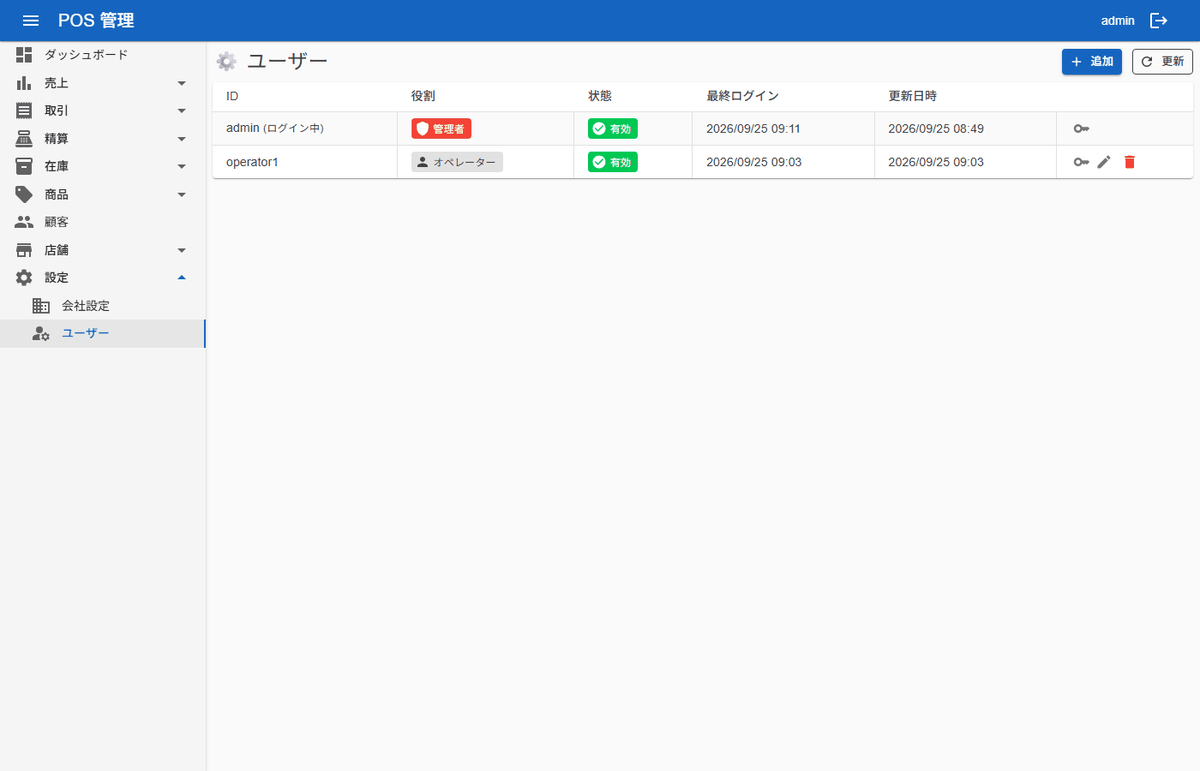
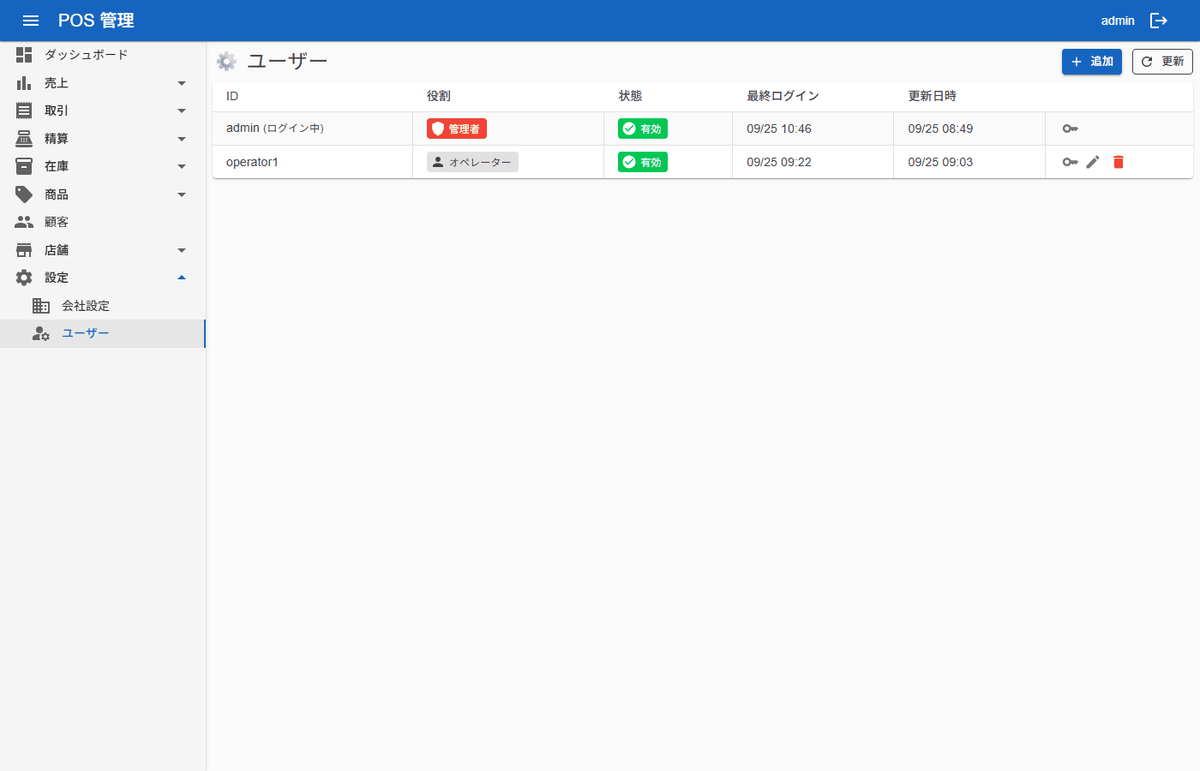
シフトの同時の精算と税率の既定の付け替えの不具合を直し、Phase 8 の不揃いを揃える
- 同じシフトの精算が同時に届いたとき、後の要求が金種を重ねて登録して 500 になるのを直す (更新できた件数を見て、先に精算されていれば再送として返す)
- 税率の登録・更新と、他の税率の既定を外す更新を 1 つのトランザクションにする
- 端末のトークンの照合を QueryByTokenHashAsync に改名し、JOIN の INNER を外す
- TerminalTokens の一意索引を UX_TerminalTokens_TokenHash にし、表との間の空行を詰める。日次締めの ClosedBy の古いコメントを直す
- ユーザー一覧の日時を年なしにし、README のユーザーの画像を撮り直す
- 設計文書を参照するコメントと、使っていない ApiResult.IsUnauthorized を消す
- ErrorCodeTests に Phase 8 の 4 つのエラーコードを足し、ApiAuthTests の固定 ID を TestData に移す

diff --git a/server/src/Pos.Server.Core/Services/TaxRateService.cs b/server/src/Pos.Server.Core/Services/TaxRateService.cs
@@ -6,18 +6,21 @@ using Pos.Server.Models.Entity;
 // 税率 (少数なのでページングなし)
 public sealed class TaxRateService
 {
+    private readonly TimeProvider timeProvider;
+    private readonly IDbProvider provider;
     private readonly IDialect dialect;
     private readonly MasterAccessor masterAccessor;
-    private readonly TimeProvider timeProvider;
 
     public TaxRateService(
+        TimeProvider timeProvider,
+        IDbProvider provider,
         IDialect dialect,
-        MasterAccessor masterAccessor,
-        TimeProvider timeProvider)
+        MasterAccessor masterAccessor)
     {
+        this.timeProvider = timeProvider;
+        this.provider = provider;
         this.dialect = dialect;
         this.masterAccessor = masterAccessor;
-        this.timeProvider = timeProvider;
     }
 
     public ValueTask<List<TaxRateEntity>> QueryListAsync(DateTime? updatedSince, bool includeDeleted, CancellationToken cancellationToken) =>
@@ -26,36 +29,50 @@ public sealed class TaxRateService
     public ValueTask<TaxRateEntity?> QueryAsync(Guid id, CancellationToken cancellationToken) =>
         masterAccessor.QueryTaxRateAsync(id, cancellationToken);
 
-    // 既定は 1 件だけ (IsDefault なら他を落とす)
-    public async ValueTask<DataWriteStatus> InsertAsync(TaxRateEntity entity, CancellationToken cancellationToken)
+    // 既定は 1 件だけ (IsDefault なら同じトランザクションで他を落とす)
+    public ValueTask<DataWriteStatus> InsertAsync(TaxRateEntity entity, CancellationToken cancellationToken)
     {
         var now = timeProvider.GetUtcNow().UtcDateTime;
         entity.Id = Guid.CreateVersion7();
         entity.CreatedAt = now;
         entity.UpdatedAt = now;
         entity.Version = 1;
-        var status = await ServiceHelper.InsertAsync(dialect, () => masterAccessor.InsertTaxRateAsync(entity, cancellationToken));
-        if ((status == DataWriteStatus.Success) && entity.IsDefault)
+        return ServiceHelper.InsertAsync(dialect, () => provider.UsingTxAsync(async (_, tx) =>
         {
-            await masterAccessor.UpdateTaxRateDefaultClearedAsync(entity.Id, now, cancellationToken);
-        }
+            var count = await masterAccessor.InsertTaxRateAsync(tx, entity, cancellationToken);
+            if (entity.IsDefault)
+            {
+                await masterAccessor.UpdateTaxRateDefaultClearedAsync(tx, entity.Id, now, cancellationToken);
+            }
 
-        return status;
+            await tx.CommitAsync(cancellationToken);
+            return count;
+        }, cancellationToken));
     }
 
-    public async ValueTask<DataWriteResult<TaxRateEntity>> UpdateAsync(TaxRateEntity entity, CancellationToken cancellationToken)
+    // 版が合わないときは何も書かない。行があるかはトランザクションを閉じてから確かめる
+    public ValueTask<DataWriteResult<TaxRateEntity>> UpdateAsync(TaxRateEntity entity, CancellationToken cancellationToken)
     {
         entity.UpdatedAt = timeProvider.GetUtcNow().UtcDateTime;
-        var result = await ServiceHelper.UpdateAsync(
+        return ServiceHelper.UpdateAsync(
             dialect,
-            () => masterAccessor.UpdateTaxRateAsync(entity.Id, entity.Code, entity.Name, entity.Rate, entity.Kind, entity.IsDefault, entity.SortOrder, entity.UpdatedAt, entity.Version, cancellationToken),
-            async () => await masterAccessor.QueryTaxRateAsync(entity.Id, cancellationToken) is { IsDeleted: false });
-        if ((result.Status == DataWriteStatus.Success) && entity.IsDefault)
-        {
-            await masterAccessor.UpdateTaxRateDefaultClearedAsync(entity.Id, entity.UpdatedAt, cancellationToken);
-        }
+            () => provider.UsingTxAsync(async (_, tx) =>
+            {
+                var updated = await masterAccessor.UpdateTaxRateAsync(tx, entity.Id, entity.Code, entity.Name, entity.Rate, entity.Kind, entity.IsDefault, entity.SortOrder, entity.UpdatedAt, entity.Version, cancellationToken);
+                if (updated is null)
+                {
+                    return null;
+                }
 
-        return result;
+                if (updated.IsDefault)
+                {
+                    await masterAccessor.UpdateTaxRateDefaultClearedAsync(tx, updated.Id, updated.UpdatedAt, cancellationToken);
+                }
+
+                await tx.CommitAsync(cancellationToken);
+                return updated;
+            }, cancellationToken),
+            async () => await masterAccessor.QueryTaxRateAsync(entity.Id, cancellationToken) is { IsDeleted: false });
     }
 
     // 使用中の商品がある税率は削除できない

diff --git a/server/src/Pos.Server.Core/Services/ShiftService.cs b/server/src/Pos.Server.Core/Services/ShiftService.cs
@@ -182,29 +182,44 @@ public sealed class ShiftService
 
         if (shift.Status == ShiftStatus.Closed)
         {
-            return shift.ActualCash == parameter.ActualCash
-                ? new ShiftResult(ShiftResultStatus.Existing, await LoadDetailAsync(shift, cancellationToken))
-                : new ShiftResult(ShiftResultStatus.Closed);
+            return await ClosedResultAsync(shift, parameter, cancellationToken);
         }
 
         var now = timeProvider.GetUtcNow().UtcDateTime;
         var totals = await shiftAccessor.QuerySummaryAsync(id, cancellationToken) ?? ShiftTotalsView.Empty;
         var expectedCash = ExpectedCash(shift.OpeningCash, totals);
-        await provider.UsingTxAsync(async (_, tx) =>
+        var updated = await provider.UsingTxAsync(async (_, tx) =>
         {
-            await shiftAccessor.UpdateClosedAsync(tx, id, parameter.ClosedAt, parameter.ClosedByStaffId, parameter.ActualCash, expectedCash, parameter.ActualCash - expectedCash, totals, parameter.Note, now, cancellationToken);
+            // 読んでから更新するまでに同じシフトの精算が先に通っていたら、金種を足さずに終える
+            if (await shiftAccessor.UpdateClosedAsync(tx, id, parameter.ClosedAt, parameter.ClosedByStaffId, parameter.ActualCash, expectedCash, parameter.ActualCash - expectedCash, totals, parameter.Note, now, cancellationToken) == 0)
+            {
+                return false;
+            }
+
             foreach (var denomination in parameter.Denominations)
             {
                 await shiftAccessor.InsertDenominationAsync(tx, new ShiftDenominationEntity { ShiftId = id, Denomination = denomination.Denomination, Count = denomination.Count }, cancellationToken);
             }
 
             await tx.CommitAsync(cancellationToken);
+            return true;
         }, cancellationToken);
 
         var closed = await shiftAccessor.QueryAsync(id, cancellationToken);
+        if (!updated)
+        {
+            return await ClosedResultAsync(closed!, parameter, cancellationToken);
+        }
+
         changeNotification.Notify(DataChangeKind.Shift);
         return new ShiftResult(ShiftResultStatus.Success, await LoadDetailAsync(closed!, cancellationToken));
     }
+
+    // 精算済み: 実査金額が同じなら再送とみなして Existing、違えば Closed
+    private async ValueTask<ShiftResult> ClosedResultAsync(ShiftEntity shift, ShiftCloseParameter parameter, CancellationToken cancellationToken) =>
+        shift.ActualCash == parameter.ActualCash
+            ? new ShiftResult(ShiftResultStatus.Existing, await LoadDetailAsync(shift, cancellationToken))
+            : new ShiftResult(ShiftResultStatus.Closed);
 
     //--------------------------------------------------------------------------------
     // CashEvent

diff --git a/server/tests/Pos.Server.IntegrationTests/ApiAuthTests.cs b/server/tests/Pos.Server.IntegrationTests/ApiAuthTests.cs
@@ -27,11 +27,6 @@ public sealed class ApiAuthTests : IClassFixture<TestApplicationFactory>
 
     private static readonly DateOnly BusinessDate = new(2026, 9, 25);
 
-    private static readonly Guid AccessoryCategoryId = new("00000000-0000-0000-0004-000000000017");
-
-    // 明細値引「展示品 5%」(承認が必要)
-    private static readonly Guid DisplayDiscountId = new("00000000-0000-0000-0007-000000000002");
-
     private readonly TestApplicationFactory factory;
 
     private readonly JsonSerializerOptions options;
@@ -270,10 +265,10 @@ public sealed class ApiAuthTests : IClassFixture<TestApplicationFactory>
             TransactedAt = Now.AddMinutes(10),
             Lines =
             [
-                new TransactionCreateRequestLine { Id = lineId, LineNo = 1, ProductId = TestData.SdCardProductId, ProductCode = "SD-64", ProductName = "SD カード 64GB", CategoryId = AccessoryCategoryId, Kind = ProductKind.Goods, ListPrice = 2000m, UnitPrice = 2000m, Quantity = 1m, TaxRateId = TestData.StandardTaxRateId, TaxRate = 0.10m, TaxIncluded = true, PointRate = 0m }
+                new TransactionCreateRequestLine { Id = lineId, LineNo = 1, ProductId = TestData.SdCardProductId, ProductCode = "SD-64", ProductName = "SD カード 64GB", CategoryId = TestData.AccessoryCategoryId, Kind = ProductKind.Goods, ListPrice = 2000m, UnitPrice = 2000m, Quantity = 1m, TaxRateId = TestData.StandardTaxRateId, TaxRate = 0.10m, TaxIncluded = true, PointRate = 0m }
             ],
             Discounts = withDiscount
-                ? [new TransactionCreateRequestDiscount { Id = Guid.NewGuid(), LineId = lineId, DiscountId = DisplayDiscountId, Name = "展示品 5%", Type = DiscountType.Percent, Value = 0.05m, ApprovedByStaffId = approvedBy }]
+                ? [new TransactionCreateRequestDiscount { Id = Guid.NewGuid(), LineId = lineId, DiscountId = TestData.DisplayDiscountId, Name = "展示品 5%", Type = DiscountType.Percent, Value = 0.05m, ApprovedByStaffId = approvedBy }]
                 : [],
             Payments =
             [

diff --git a/server/src/Pos.Server.Core/Accessors/MasterAccessor.cs b/server/src/Pos.Server.Core/Accessors/MasterAccessor.cs
@@ -223,10 +223,11 @@ public sealed partial class MasterAccessor
 
     [Execute]
     [Insert(typeof(TaxRateEntity))]
-    public partial ValueTask<int> InsertTaxRateAsync(TaxRateEntity entity, CancellationToken cancellationToken);
+    public partial ValueTask<int> InsertTaxRateAsync(DbTransaction tx, TaxRateEntity entity, CancellationToken cancellationToken);
 
     [QueryFirst]
     public partial ValueTask<TaxRateEntity?> UpdateTaxRateAsync(
+        DbTransaction tx,
         Guid id,
         string code,
         string name,
@@ -243,7 +244,7 @@ public sealed partial class MasterAccessor
 
     // 既定は 1 件だけ: 指定 ID 以外の IsDefault を落とす
     [Execute]
-    public partial ValueTask<int> UpdateTaxRateDefaultClearedAsync(Guid exceptId, DateTime updatedAt, CancellationToken cancellationToken);
+    public partial ValueTask<int> UpdateTaxRateDefaultClearedAsync(DbTransaction tx, Guid exceptId, DateTime updatedAt, CancellationToken cancellationToken);
 
     // 削除可否 (使用中商品があれば IN_USE)
     [ExecuteScalar]

diff --git a/terminal/Pos.Terminal/Services/ApiResult.cs b/terminal/Pos.Terminal/Services/ApiResult.cs
@@ -28,9 +28,6 @@ public sealed class ApiResult<T>
 
     public bool IsNotFound => (Status == ApiStatus.HttpError) && (StatusCode == HttpStatusCode.NotFound);
 
-    // 端末の登録が無効 (トークンの解除など)。再登録すれば送れる
-    public bool IsUnauthorized => (Status == ApiStatus.HttpError) && (StatusCode == HttpStatusCode.Unauthorized);
-
     // 再送しても解決しない応答 (要確認)。登録が無効 (401) と試行回数の上限 (429) は再登録・時間をおけば送れる
     public bool IsRejected => (Status == ApiStatus.HttpError) && ((int)StatusCode is >= 400 and < 500) && (StatusCode is not (HttpStatusCode.Unauthorized or HttpStatusCode.TooManyRequests));
 

diff --git a/shared/Pos.Domain.Tests/Enums/ErrorCodeTests.cs b/shared/Pos.Domain.Tests/Enums/ErrorCodeTests.cs
@@ -32,6 +32,10 @@ public sealed class ErrorCodeTests
     [InlineData(ErrorCode.OrderStatusInvalid, "ORDER_STATUS_INVALID")]
     [InlineData(ErrorCode.InventoryReceiptStatusInvalid, "INVENTORY_RECEIPT_STATUS_INVALID")]
     [InlineData(ErrorCode.InventoryTransferStatusInvalid, "INVENTORY_TRANSFER_STATUS_INVALID")]
+    [InlineData(ErrorCode.TerminalMismatch, "TERMINAL_MISMATCH")]
+    [InlineData(ErrorCode.PairingCodeInvalid, "PAIRING_CODE_INVALID")]
+    [InlineData(ErrorCode.ApprovalRequired, "APPROVAL_REQUIRED")]
+    [InlineData(ErrorCode.StaffInvalid, "STAFF_INVALID")]
     public void ErrorCodeToCode(ErrorCode code, string expected)
     {
         Assert.Equal(expected, code.ToCode());

diff --git a/server/tests/Pos.Server.IntegrationTests/TestData.cs b/server/tests/Pos.Server.IntegrationTests/TestData.cs
@@ -16,12 +16,15 @@ internal static class TestData
     public static readonly Guid MainCashierStaffId = Id(3, 3);
     public static readonly Guid BranchCashierStaffId = Id(3, 4);
 
+    public static readonly Guid AccessoryCategoryId = Id(4, 23);
+
     public static readonly Guid StandardTaxRateId = Id(5, 1);
 
     public static readonly Guid CameraProductId = Id(6, 11);
     public static readonly Guid SdCardProductId = Id(6, 17);
     public static readonly Guid DeliveryProductId = Id(6, 31);
 
+    // 明細値引「展示品 5%」(承認が必要)
     public static readonly Guid DisplayDiscountId = Id(7, 2);
 
     public static readonly Guid CashPaymentMethodId = Id(8, 1);

diff --git a/server/src/Pos.Server.Core/Services/TerminalTokenService.cs b/server/src/Pos.Server.Core/Services/TerminalTokenService.cs
@@ -125,7 +125,7 @@ public sealed class TerminalTokenService
 
     // 有効なトークンなら端末と店舗 (null = 不明・解除済み・端末が無効)
     public ValueTask<TerminalTokenView?> AuthenticateAsync(string token, CancellationToken cancellationToken) =>
-        tokenAccessor.QueryTokenAsync(HashToken(token), cancellationToken);
+        tokenAccessor.QueryByTokenHashAsync(HashToken(token), cancellationToken);
 
     public ValueTask<List<TerminalRegistrationView>> QueryRegistrationListAsync(CancellationToken cancellationToken) =>
         tokenAccessor.QueryRegistrationListAsync(cancellationToken);

diff --git a/server/src/Pos.Server.Core/Accessors/TerminalTokenAccessor.cs b/server/src/Pos.Server.Core/Accessors/TerminalTokenAccessor.cs
@@ -17,7 +17,7 @@ public sealed partial class TerminalTokenAccessor
 
     // 有効なトークン (解除されておらず、端末が有効で削除されていない)
     [QueryFirst]
-    public partial ValueTask<TerminalTokenView?> QueryTokenAsync(byte[] tokenHash, CancellationToken cancellationToken);
+    public partial ValueTask<TerminalTokenView?> QueryByTokenHashAsync(byte[] tokenHash, CancellationToken cancellationToken);
 
     [Query]
     public partial ValueTask<List<TerminalRegistrationView>> QueryRegistrationListAsync(CancellationToken cancellationToken);

diff --git a/server/src/Pos.Server.Host/Application/Authentication/Policies.cs b/server/src/Pos.Server.Host/Application/Authentication/Policies.cs
@@ -8,7 +8,7 @@ public static class Policies
     // API の既定: 管理画面のログイン (Cookie) か端末のトークン
     public const string Api = nameof(Api);
 
-    // 管理画面のログインだけ (api-design の用途が「管理」だけの API)
+    // 管理画面のログインだけ (管理画面だけが使う API)
     public const string Admin = nameof(Admin);
 
     // 管理画面の管理者 (マスタ・会社設定・ユーザー・端末登録の変更)
